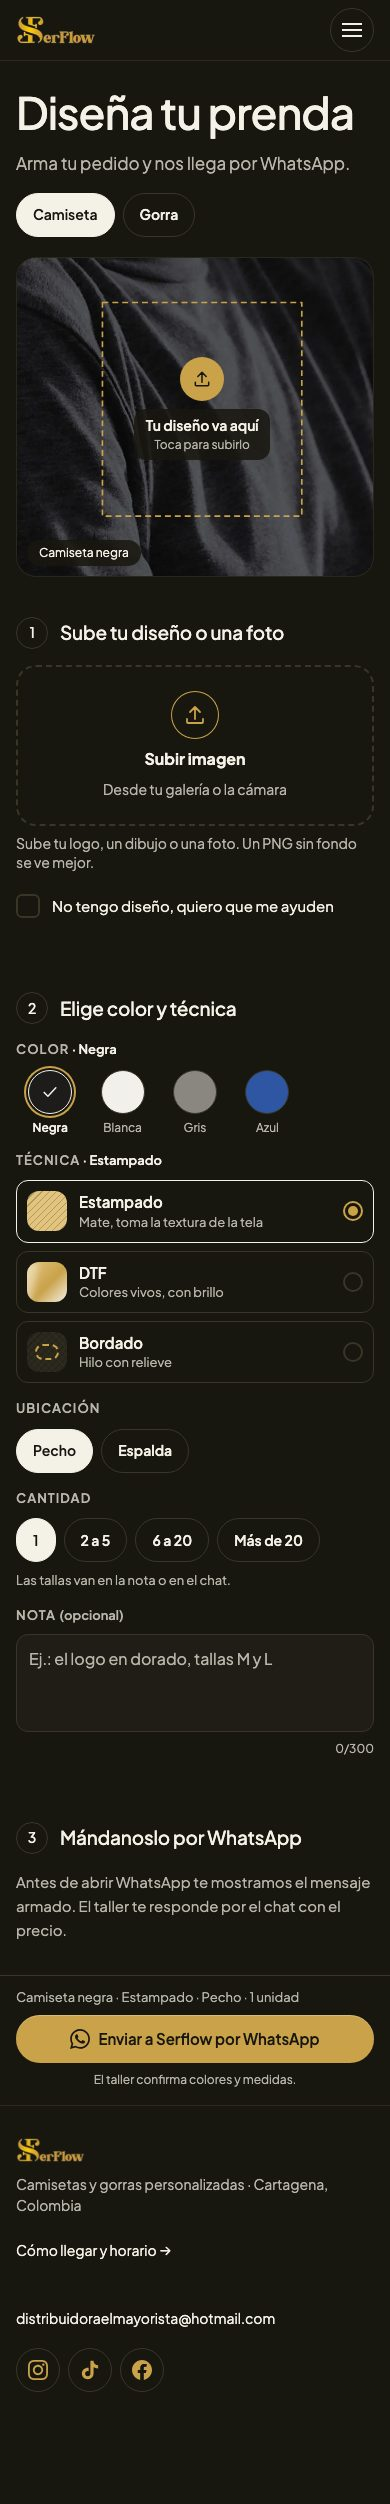
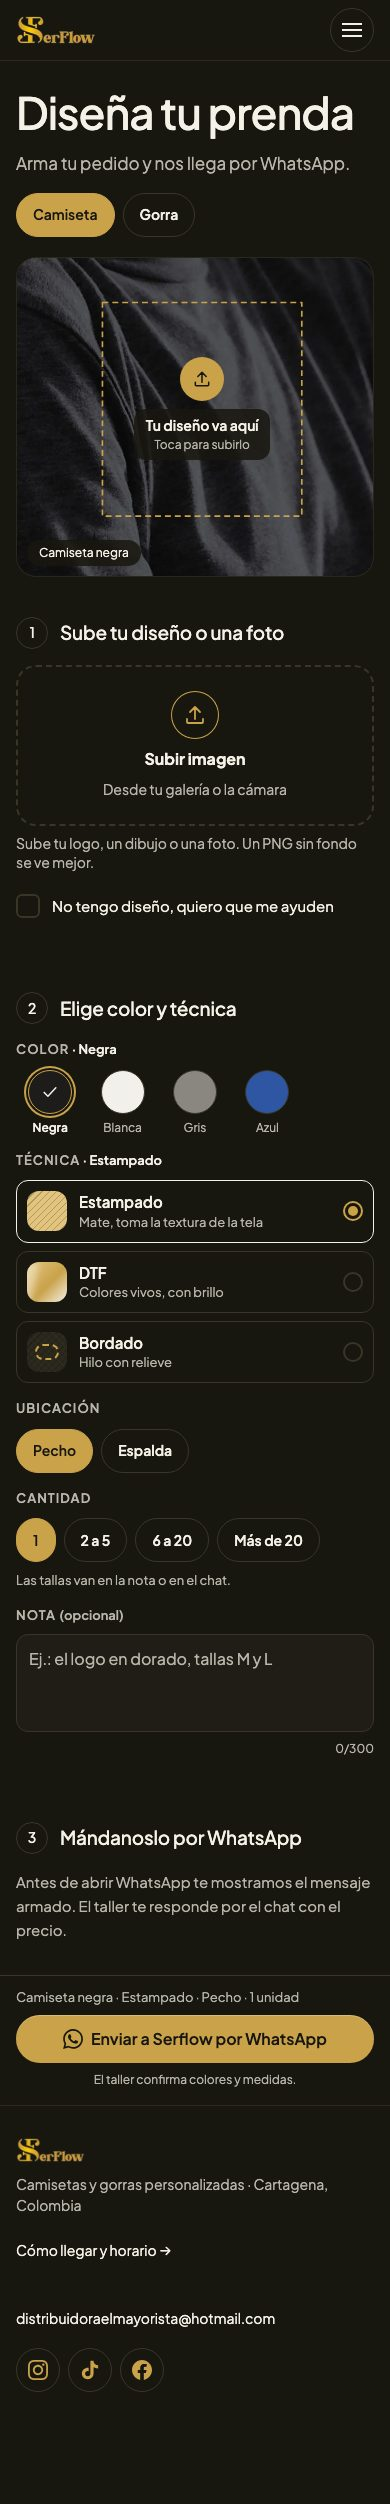
docs: PRI-286 round 4: customizer desktop columns start and end on the same edge, left column spreads its spacing, preview stays 4:5, captures refreshed

diff --git a/tempo/designs/canvases/refresh-oro-viejo/refresh-r3.css b/tempo/designs/canvases/refresh-oro-viejo/refresh-r3.css
@@ -142,14 +142,19 @@
 
 /* ---------- Personalizador (/personaliza, PR #36) en desktop ---------- */
 
-/* Said: "estamos desaprovechando mucho este espacio" (columna izquierda vacía ~520 x 900 debajo de la vista previa).
-   Izquierda: prenda, vista previa 4:5 y el paso 3 con el resumen y Enviar (todo junto, sticky). Derecha: pasos 1 y 2.
-   Las dos columnas cierran a la misma altura. PUENTE: la captura mueve esos nodos a .pz-izq / .pz-der; en el PR,
-   PersonalizaPage arma las dos columnas así a partir de @4xl (en el celular no cambia el orden). */
+/* Izquierda: prenda, vista previa y el paso 3 con el resumen y Enviar. Derecha: pasos 1 y 2.
+   Ronda 4 (Said: "Este espacio no me gusta, tiene que estar mejor alineado"): la ronda 3 dejaba la izquierda ~120 px más
+   corta que la derecha y la derecha empezaba 48 px más abajo. Ahora las dos columnas se estiran a la misma fila: empiezan
+   en el mismo borde (sin el pt de la derecha) y terminan en el mismo borde: la izquierda reparte lo que le falta en sus
+   4 separaciones (24 -> ~41 px, casi el 48 de la derecha) y Enviar cierra a ras del final del paso 2. La vista previa
+   sigue 4:5. Si un día la izquierda es la más alta, el paso 2 se estira (flex 1). Vacío residual: 0.
+   PUENTE: la captura mueve esos nodos a .pz-izq / .pz-der; en el PR, PersonalizaPage arma las dos columnas así a partir
+   de @4xl con grid-template-areas (en el celular no cambia el orden). */
 @media (min-width: 1024px) {
-  .sf-r3 main:has(> .pz-izq) { grid-template-rows: auto 1fr; column-gap: 56px; align-items: start; }
-  .sf-r3 main > .pz-izq { grid-column: 1; grid-row: 2; display: flex; flex-direction: column; gap: 24px; position: sticky; top: 24px; }
-  .sf-r3 main > .pz-der { grid-column: 2; grid-row: 2; padding-top: 0; gap: 48px; }
+  .sf-r3 main:has(> .pz-izq) { grid-template-rows: auto 1fr; column-gap: 56px; align-items: stretch; }
+  .sf-r3 main > .pz-izq { grid-column: 1; grid-row: 2; display: flex; flex-direction: column; justify-content: space-between; gap: 24px; position: static; padding-bottom: 32px; }
+  .sf-r3 main > div.pz-der.px-4.pt-6 { grid-column: 2; grid-row: 2; padding: 0 0 32px; gap: 48px; }
+  .sf-r3 main > .pz-der > section:last-child { flex: 1; }
   .sf-r3 .pz-izq > * { align-self: stretch; }
   .sf-r3 .pz-izq > fieldset { padding: 0; }
   .sf-r3 .pz-izq > div.sticky { position: static; margin: 0; padding: 0; box-shadow: none; }
